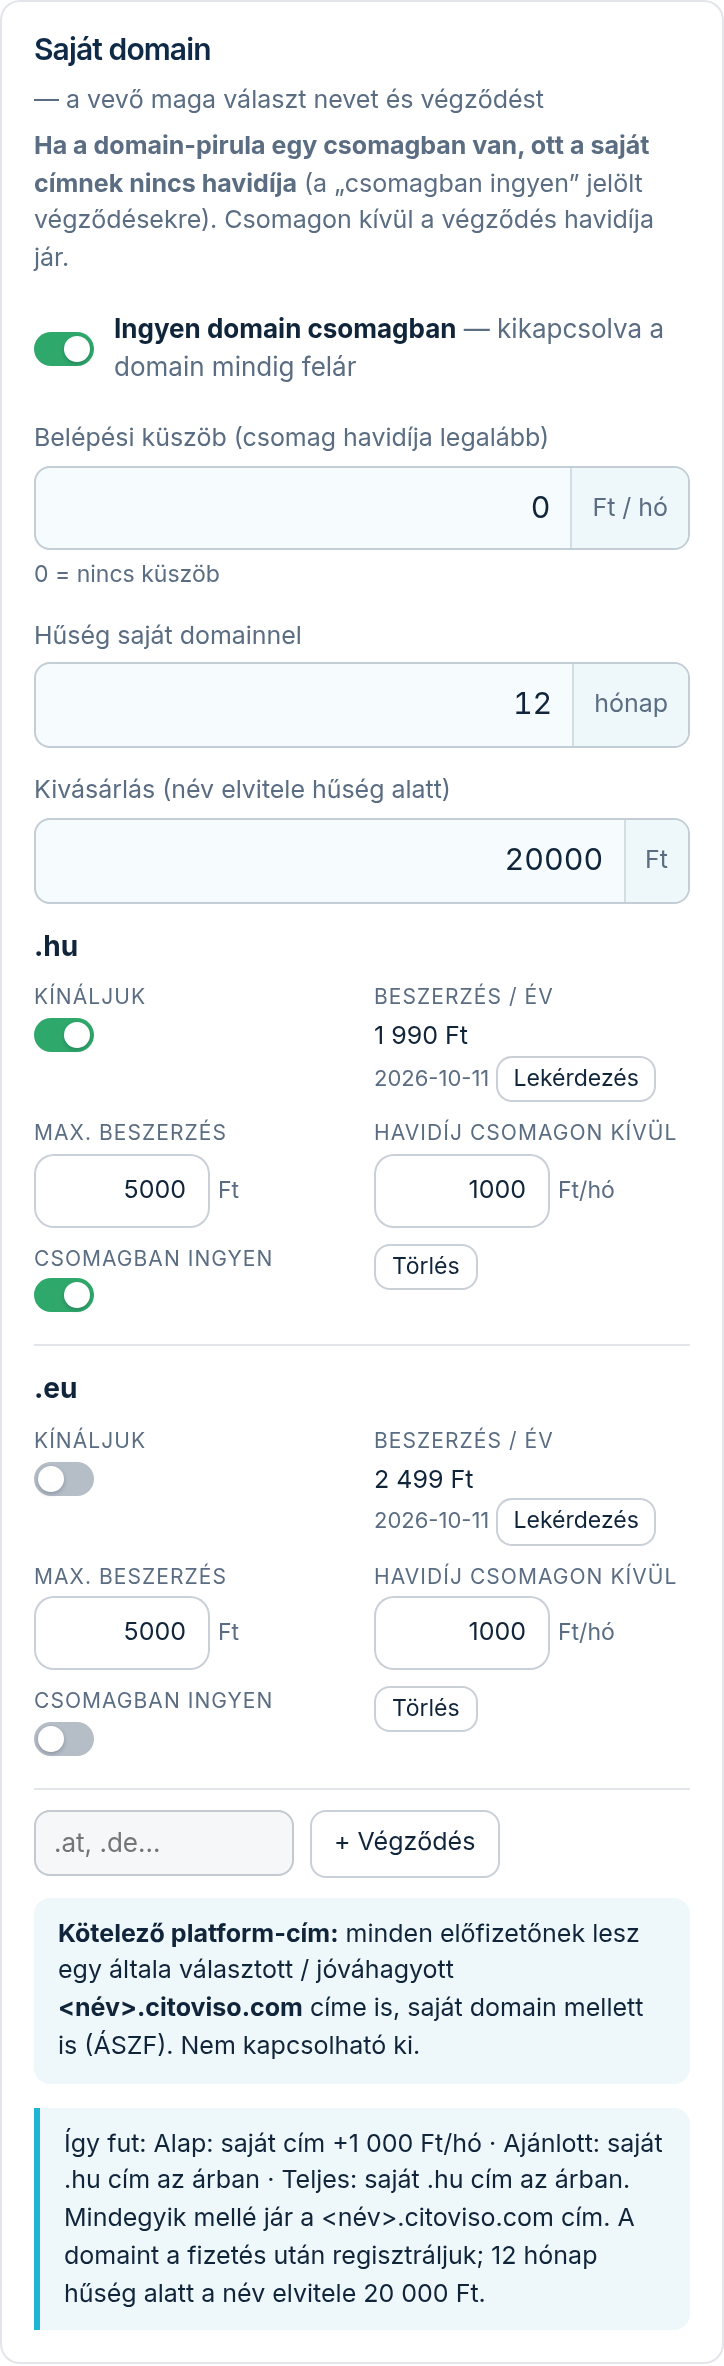
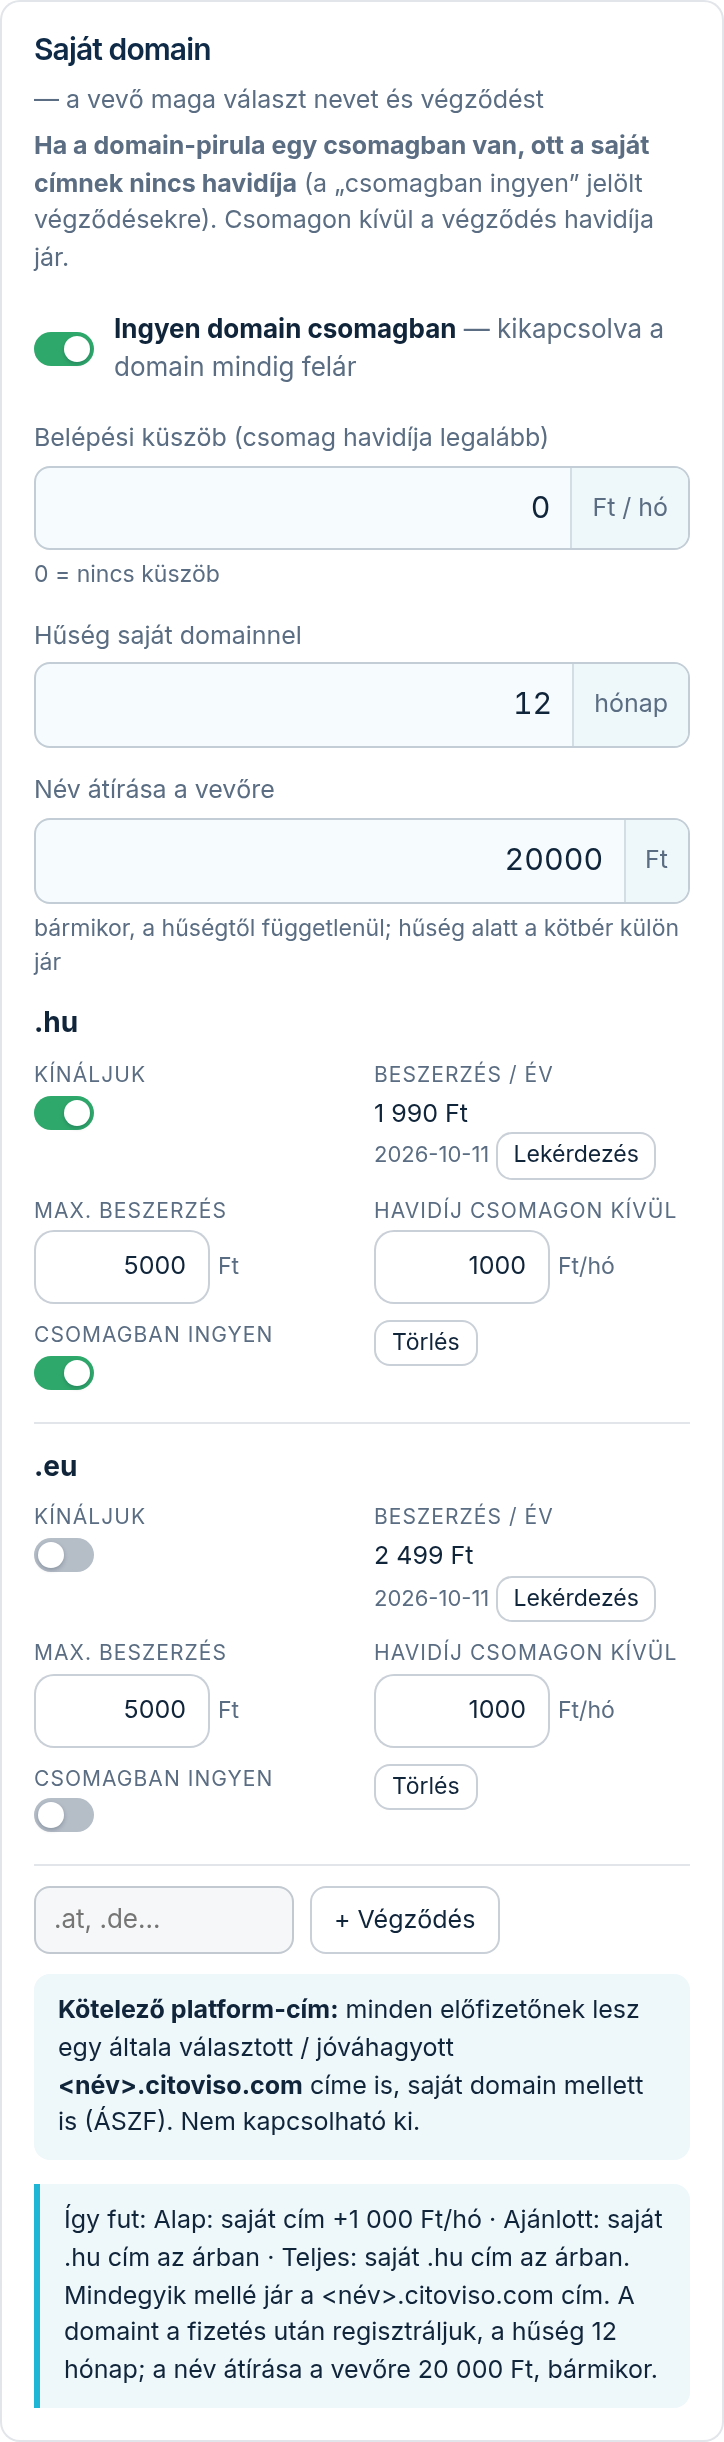
fix(pricing): az összegző mondat is az átírási díjat mondja (bármikor), friss súgó-képek (ADR-0403)
Claude-Session: https://claude.ai/code/session_01DKhMcwpadY5BrGcRJYKmBh

diff --git a/src/console/pricingPage.ts b/src/console/pricingPage.ts
@@ -435,7 +435,7 @@ export function pricingPageData(lang: Lang, snap: PricingSnapshot, x: PricingPag
       lmFee: T(lang, "Havidíj csomagon kívül"),
       lmFree: T(lang, "Csomagban ingyen"),
       runBase: T(lang, "Így fut: havi fizetésnél az Ajánlott {m}/hó; éves fizetésnél {k} hónap árát fizeti: {y}/év ({n} hónap ingyen).", { m: "{m}", k: "{k}", y: "{y}", n: "{n}" }),
-      runDom: T(lang, "Így fut: {lines}. Mindegyik mellé jár a <név>.citoviso.com cím. A domaint a fizetés után regisztráljuk; {c} hónap hűség alatt a név elvitele {b}.", { lines: "{lines}", c: "{c}", b: "{b}" }),
+      runDom: T(lang, "Így fut: {lines}. Mindegyik mellé jár a <név>.citoviso.com cím. A domaint a fizetés után regisztráljuk, a hűség {c} hónap; a név átírása a vevőre {b}, bármikor.", { lines: "{lines}", c: "{c}", b: "{b}" }),
       runDomIn: T(lang, "{t}: saját {e} cím az árban", { t: "{t}", e: "{e}" }),
       runDomMin: T(lang, "{t}: saját cím nem kérhető", { t: "{t}" }),
       runDomFee: T(lang, "{t}: saját cím +{p}/hó", { t: "{t}", p: "{p}" }),
